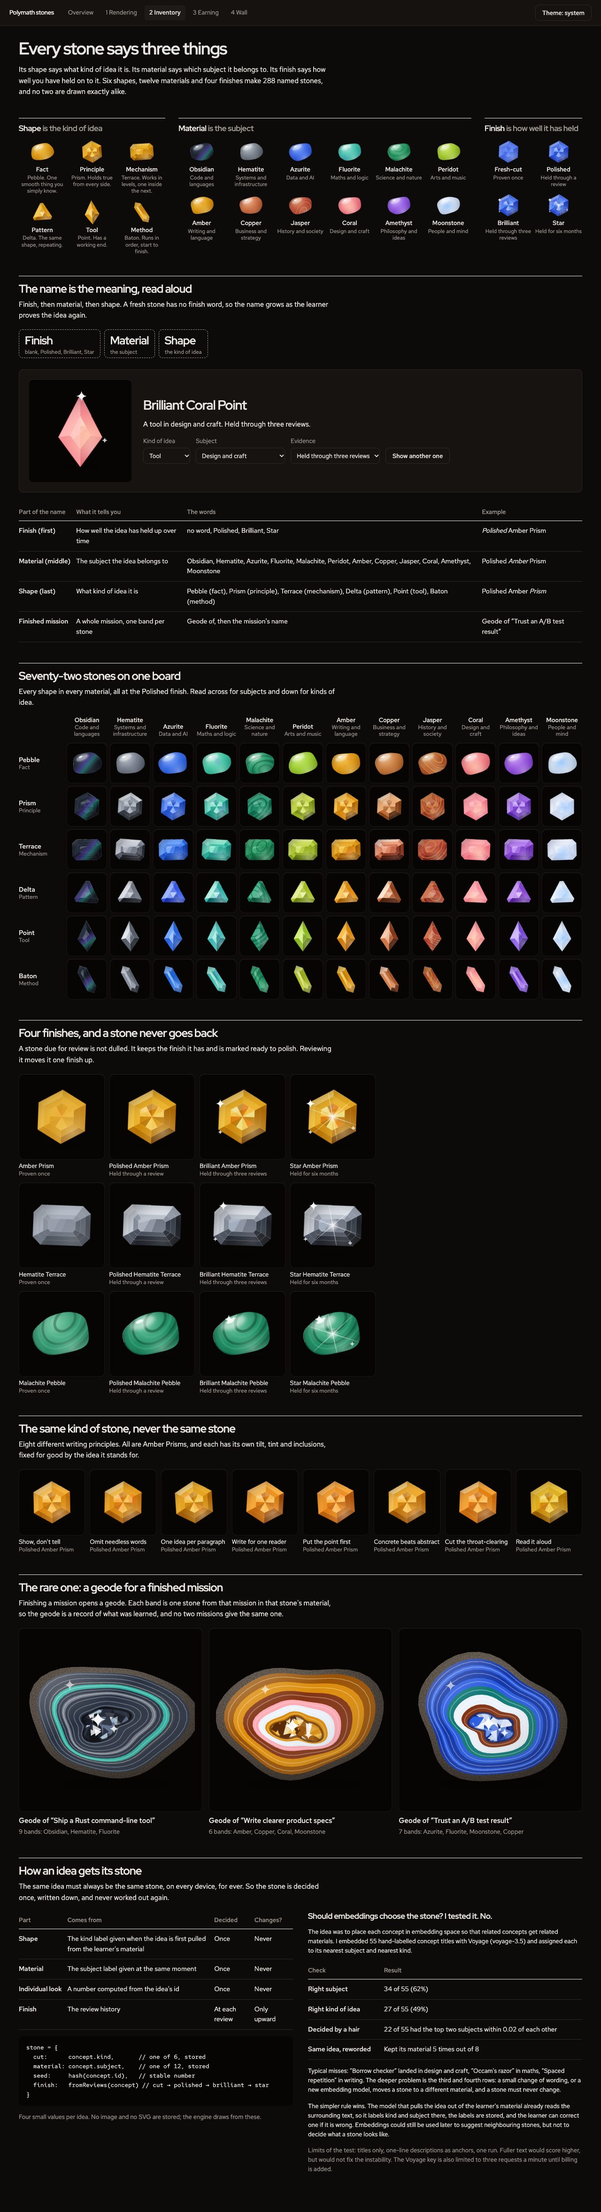
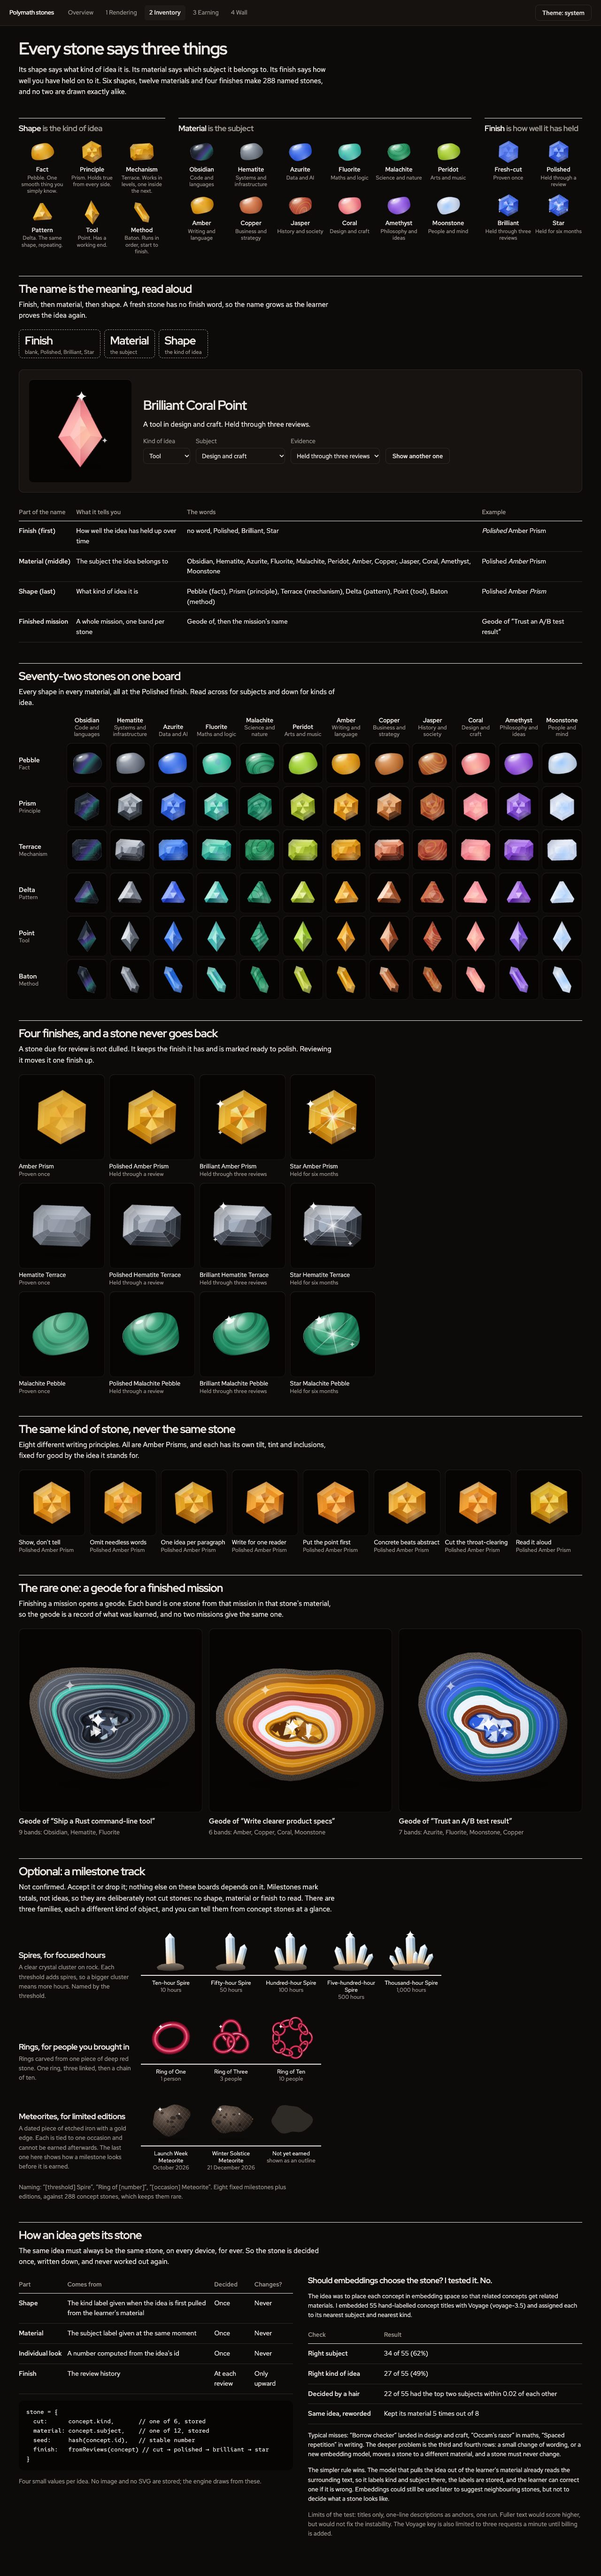
Stones: optional milestone track on the inventory board and the wall
Presented as an option, not confirmed scope. Three families that are
deliberately not cut stones: spires for focused hours (10 to 1,000), rings for
people invited (1, 3, 10) and dated meteorites for limited editions. The wall
gets a ledge with locked outlines and progress to the next, behind a toggle.

Committed with --no-verify for the same reason as the previous commit (the
hook cannot re-stage gitignored paths); prettier, eslint and size checks pass.

diff --git a/mockups/stones/lib/stones.js b/mockups/stones/lib/stones.js
@@ -420,10 +420,64 @@
     return `<svg xmlns="http://www.w3.org/2000/svg" viewBox="0 0 200 200"><defs>${defs}</defs><ellipse cx="104" cy="176" rx="66" ry="7" fill="#000" opacity=".2"/>${s}</svg>`;
   }
 
+  /* ---------- milestone track (optional): not cut stones, on purpose ---------- */
+  const LOCK = "#8c867b";
+  const SPIRE_COLS = [[0, 128, 36, -2], [30, 88, 28, 15], [-32, 80, 26, -18], [54, 56, 20, 30], [-56, 50, 18, -32], [12, 58, 18, 6]];
+  /** Focused hours: a crystal cluster that gains spires. tier 1..5. */
+  function drawSpire(tier, opts) {
+    opts = opts || {};
+    const id = opts.id || "sp", locked = !!opts.locked, pal = ["#4d6072", "#8ea6ba", "#cfdeea", "#f1f7fb", "#ffffff"];
+    const cols = SPIRE_COLS.slice(0, [1, 2, 3, 4, 6][tier - 1]).sort((a, b) => b[1] - a[1]);
+    let s = "";
+    for (const [x, h, w, tilt] of cols) {
+      const a = (tilt * Math.PI) / 180, o = [100 + x, 166], T = (q) => rot([o[0] + q[0], o[1] + q[1]], a, o), top = -(h - w * 0.55);
+      const xs = [-w / 2, -w / 7, w / 5, w / 2], out = [[-w / 2, 0], [w / 2, 0], [w / 2, top], [0, -h], [-w / 2, top]].map(T);
+      if (locked) { s += `<polygon points="${pts(out)}" fill="${LOCK}" opacity=".26" stroke="${LOCK}" stroke-width="1.2" stroke-dasharray="3 4"/>`; continue; }
+      for (let i = 0; i < 3; i++) {
+        s += `<polygon points="${pts([[xs[i], 0], [xs[i + 1], 0], [xs[i + 1], top], [xs[i], top]].map(T))}" fill="${[pal[3], pal[2], pal[1]][i]}"/>`;
+        s += `<polygon points="${pts([[xs[i], top], [xs[i + 1], top], [0, -h]].map(T))}" fill="${[pal[4], pal[3], pal[2]][i]}"/>`;
+      }
+      s += `<polygon points="${pts(out)}" fill="url(#${id}o)" opacity="${f1(0.45 + tier * 0.1)}"/><polygon points="${pts(out)}" fill="none" stroke="${pal[0]}" stroke-width="1.1" stroke-linejoin="round" opacity=".6"/>`;
+    }
+    const rx = 50 + tier * 5;
+    const base = `M${100 - rx},170Q${100 - rx * 0.7},154 ${100 - rx * 0.2},158Q${100 + rx * 0.3},150 ${100 + rx * 0.75},160Q${100 + rx},166 ${100 + rx * 0.9},178Q100,190 ${100 - rx * 0.9},180Z`;
+    s += locked ? `<path d="${base}" fill="${LOCK}" opacity=".3"/>` : `<path d="${base}" fill="url(#${id}b)"/>` + sparkle(100 + cols[0][0] - 4, 166 - cols[0][1] + 6, 6 + tier * 2, 0.95) + (tier >= 4 ? sparkle(142, 96, 7, 0.8) + sparkle(56, 108, 5, 0.7) : "");
+    const defs = `<linearGradient id="${id}o" x1="0" y1="1" x2="0" y2="0"><stop offset="0" stop-color="#ff9a3d" stop-opacity=".9"/><stop offset=".6" stop-color="#ffd27a" stop-opacity="0"/></linearGradient><linearGradient id="${id}b" x1="0" y1="0" x2="0" y2="1"><stop offset="0" stop-color="#8a7d70"/><stop offset="1" stop-color="#3b332d"/></linearGradient>`;
+    return `<svg xmlns="http://www.w3.org/2000/svg" viewBox="0 0 200 200"><defs>${defs}</defs>${locked ? "" : '<ellipse cx="102" cy="186" rx="64" ry="6" fill="#000" opacity=".18"/>'}${s}</svg>`;
+  }
+  /** People invited: rings carved from one piece, linked. count 1, 3 or 10. */
+  function drawRings(count, opts) {
+    opts = opts || {};
+    const locked = !!opts.locked, pal = ["#3a0614", "#7a0f2b", "#b81f45", "#e8627f", "#ffd0d9"];
+    const one = (cx, cy, r, sq, deg, w) => {
+      const e = `cx="${f1(cx)}" cy="${f1(cy)}" rx="${f1(r)}" ry="${f1(r * sq)}" fill="none"`, t = `transform="rotate(${f1(deg)} ${f1(cx)} ${f1(cy)})"`;
+      if (locked) return `<ellipse ${e} ${t} stroke="${LOCK}" stroke-width="${f1(w)}" opacity=".3"/>`;
+      return `<g ${t}><ellipse ${e} stroke="${pal[0]}" stroke-width="${f1(w + 2)}" opacity=".7"/><ellipse ${e} stroke="${pal[1]}" stroke-width="${f1(w)}"/><ellipse ${e} stroke="${pal[2]}" stroke-width="${f1(w * 0.6)}"/><ellipse ${e} stroke="${pal[3]}" stroke-width="${f1(w * 0.22)}"/><ellipse ${e} stroke="${pal[4]}" stroke-width="${f1(w * 0.16)}" stroke-linecap="round" stroke-dasharray="${f1(r * 1.1)} 999" stroke-dashoffset="${f1(-r * 3.4)}"/></g>`;
+    };
+    let s = "";
+    if (count <= 1) s = one(100, 100, 62, 0.82, -14, 24);
+    else if (count <= 3) for (let i = 0; i < 3; i++) { const a = -TAU / 4 + (i * TAU) / 3; s += one(100 + 30 * Math.cos(a), 104 + 30 * Math.sin(a), 40, 0.86, (a * 180) / Math.PI, 14); }
+    else for (let i = 0; i < 10; i++) { const a = (i * TAU) / 10; s += one(100 + 58 * Math.cos(a), 100 + 58 * Math.sin(a), 24, i % 2 ? 0.5 : 0.95, (a * 180) / Math.PI + 90, 8); }
+    return `<svg xmlns="http://www.w3.org/2000/svg" viewBox="0 0 200 200">${locked ? "" : '<ellipse cx="102" cy="186" rx="60" ry="6" fill="#000" opacity=".16"/>'}${s}${locked ? "" : sparkle(60, 56, 8, 0.9)}</svg>`;
+  }
+  /** Limited editions: a dated meteorite. Iron, etched, with a gold fusion edge. */
+  function drawMeteorite(seed, opts) {
+    opts = opts || {};
+    const id = opts.id || "mt", locked = !!opts.locked, r = rng(seed || 5), p = [r() * TAU, r() * TAU, r() * TAU];
+    const P = Array.from({ length: 40 }, (_, i) => { const th = (i / 40) * TAU, w = 1 + 0.1 * Math.sin(2 * th + p[0]) + 0.08 * Math.sin(3 * th + p[1]) + 0.05 * Math.sin(6 * th + p[2]); return [100 + 70 * w * Math.cos(th), 100 + 58 * w * Math.sin(th)]; });
+    const d = "M" + P.map(pt).join("L") + "Z";
+    if (locked) return `<svg xmlns="http://www.w3.org/2000/svg" viewBox="0 0 200 200"><path d="${d}" fill="${LOCK}" opacity=".26" stroke="${LOCK}" stroke-width="1.2" stroke-dasharray="3 4"/></svg>`;
+    let lines = "";
+    for (let i = -8; i <= 8; i++) lines += `M${i * 16 - 40},0l200,200M${i * 16 + 240},0l-140,200`;
+    let pits = "";
+    for (let i = 0; i < 7; i++) pits += `<ellipse cx="${f1(50 + r() * 100)}" cy="${f1(60 + r() * 80)}" rx="${f1(4 + r() * 8)}" ry="${f1(3 + r() * 5)}" fill="#0b0807" opacity=".5"/>`;
+    return `<svg xmlns="http://www.w3.org/2000/svg" viewBox="0 0 200 200"><defs><radialGradient id="${id}g" cx=".36" cy=".3" r=".85"><stop offset="0" stop-color="#7d6c60"/><stop offset=".55" stop-color="#3b302a"/><stop offset="1" stop-color="#120e0c"/></radialGradient><clipPath id="${id}c"><path d="${d}"/></clipPath></defs><ellipse cx="102" cy="176" rx="60" ry="6" fill="#000" opacity=".18"/><path d="${d}" fill="url(#${id}g)"/><g clip-path="url(#${id}c)"><path d="${lines}" stroke="#e7d7b4" stroke-width=".8" opacity=".22" fill="none"/>${pits}</g><path d="${d}" fill="none" stroke="#f3b23c" stroke-width="2.2" stroke-linejoin="round" stroke-dasharray="150 600" stroke-dashoffset="330" opacity=".9"/><path d="${d}" fill="none" stroke="#0b0807" stroke-width="1.2" opacity=".5"/>${sparkle(58, 60, 9, 0.95)}${sparkle(132, 78, 5, 0.75)}</svg>`;
+  }
+
   root.Stones = {
     CUTS, MATERIALS, FINISHES, CUT, MAT, FIN,
     fnv, rng, ramp, mix, rotateHue, hexToRgb,
     stoneName, stoneMeaning, stoneForConcept,
-    buildCut, drawStone, drawForming, drawShard, drawGeode, dataUrl, stoneImg,
+    buildCut, drawStone, drawForming, drawShard, drawGeode, drawSpire, drawRings, drawMeteorite, dataUrl, stoneImg,
   };
 })(typeof window !== "undefined" ? window : globalThis);

diff --git a/mockups/stones/4-wall.html b/mockups/stones/4-wall.html
@@ -33,6 +33,13 @@
   svg.forming { overflow: visible; display: block; }
   .forming .ghost { fill: none; stroke: var(--ink-muted); stroke-width: 1.6; stroke-dasharray: 3 5; opacity: 0.7; }
   .forming .frag { opacity: 0; transform: translate(var(--dx), var(--dy)); } .forming .frag.on { opacity: 1; } .forming .rim { opacity: 0; }
+  /* milestone shelf: objects stand on a ledge, not in wells, so the row reads as a different thing */
+  .shelves { display: grid; grid-template-columns: 5fr 3fr 2fr; gap: 0 22px; }
+  .ledge { display: flex; flex-direction: column; gap: 8px; min-width: 0; }
+  .ledge .items { display: flex; align-items: flex-end; gap: 4px; border-bottom: 2px solid var(--ink); padding: 0 4px; min-height: 84px; }
+  .ledge .items img { width: 100%; max-width: 76px; min-width: 0; flex: 1 1 0; height: auto; margin-bottom: -4px; }
+  .ledge .cap { font-size: 0.8125rem; font-weight: 500; line-height: 1.25; } .ledge .sub { font-size: 0.75rem; color: var(--ink-muted); line-height: 1.3; }
+  .bar { height: 4px; border-radius: 2px; background: var(--paper-3); overflow: hidden; } .bar i { display: block; height: 100%; background: var(--signal); border-radius: 2px; }
   /* detail */
   .detail { position: sticky; top: 16px; padding: 18px; display: flex; flex-direction: column; gap: 14px; }
   .detail .well { aspect-ratio: 1; position: relative; padding: 14%; }
@@ -57,7 +64,7 @@
   #share .facts { font-size: 20px; color: var(--ink-2); }
   #share .rowstones { display: flex; gap: 10px; margin-top: 30px; } #share .rowstones div { width: 76px; text-align: center; font-size: 12px; line-height: 1.2; color: var(--ink-muted); } #share .rowstones img { width: 76px; height: 76px; }
   #share .brand { position: absolute; right: 56px; bottom: 40px; font-family: var(--font-display); font-weight: 600; font-size: 22px; letter-spacing: -0.03em; }
-  @media (max-width: 900px) { .layout { grid-template-columns: minmax(0, 1fr); } .detail { position: static; } .empty .drawer { grid-template-columns: repeat(3, minmax(0, 1fr)); } }
+  @media (max-width: 900px) { .layout { grid-template-columns: minmax(0, 1fr); } .shelves { grid-template-columns: minmax(0, 1fr); gap: 22px; } .detail { position: static; } .empty .drawer { grid-template-columns: repeat(3, minmax(0, 1fr)); } }
 </style>
 </head>
 <body>
@@ -67,6 +74,7 @@
     <button class="btn" type="button" data-view="wall">The wall</button>
     <button class="btn" type="button" data-view="empty">A new learner</button>
     <button class="btn" type="button" data-view="share">The share image</button>
+    <label style="display:inline-flex;gap:6px;align-items:center"><input type="checkbox" id="ms-toggle" checked> Milestone shelf (optional, not confirmed)</label>
     <span class="muted" style="margin-left:auto">Click a stone to read it. Try “Polish now” on one that is ready.</span>
   </div>
 
@@ -76,6 +84,7 @@
         <div class="wallhead"><h1>Stones</h1><span class="muted" id="summary"></span></div>
         <div class="key6" id="key6" aria-label="What the shapes mean"></div>
       </div>
+      <section id="shelf" class="mission" aria-label="Milestones"><header><h2>Milestones</h2><span class="small muted">Rare. For totals, not ideas.</span></header><div class="shelves" id="shelves"></div></section>
       <div id="missions" class="stack" style="gap:36px"></div>
     </div>
     <aside class="panel detail" id="detail" aria-live="polite"></aside>
@@ -180,6 +189,20 @@
   // empty state: the six shapes as outlines, so the first screen already teaches the legend
   $("ghosts").innerHTML = S.CUTS.map((c) => `<div><div class="well"><svg viewBox="0 0 200 200"><path class="ghost" d="${S.drawStone({ cut: c.key, material: "amber", finish: "cut", seed: 3 }).outlineD}"/></svg></div><div class="cap">${c.plural}</div></div>`).join("");
   $("key6").innerHTML = "<span>Shape is the kind of idea:</span>" + S.CUTS.map((c) => `<span>${S.stoneImg({ cut: c.key, material: "hematite", finish: "cut", seed: 3 }, 22, "")}${c.kind}</span>`).join("") + '<span>Material is the subject. Finish is how well it has held.</span>';
+
+  // optional milestone shelf
+  (function () {
+    const M = D.MILESTONES, im = (svg, alt) => `<img src="${S.dataUrl(svg)}" alt="${alt}" title="${alt}">`;
+    const ledge = (t, draw) => {
+      const next = t.tiers.find(([n]) => n > t.have), last = [...t.tiers].reverse().find(([n]) => n <= t.have);
+      const items = t.tiers.map(([n, name], i) => im(draw(i, n, n > t.have), n > t.have ? name + ", not yet earned" : name)).join("");
+      return `<div class="ledge"><div class="items">${items}</div><div class="cap">${t.title}</div><div class="sub">${last ? last[1] + " earned. " : ""}${next ? `<span class="readout">${t.have} of ${next[0]}</span> ${t.unit} to the ${next[1]}.` : "All earned."}</div>${next ? `<div class="bar" role="img" aria-label="${t.have} of ${next[0]} ${t.unit}"><i style="width:${Math.round((t.have / next[0]) * 100)}%"></i></div>` : ""}</div>`;
+    };
+    $("shelves").innerHTML = ledge(M.hours, (i, n, locked) => S.drawSpire(i + 1, { id: "ws" + i, locked })) + ledge(M.invites, (i, n, locked) => S.drawRings(n, { locked })) +
+      `<div class="ledge"><div class="items">${M.editions.items.map((e, i) => im(S.drawMeteorite(e.seed, { id: "wm" + i, locked: !e.earned }), e.earned ? e.name : e.name + ", not yet earned")).join("")}</div><div class="cap">${M.editions.title}</div><div class="sub">${M.editions.items[0].name}, ${M.editions.items[0].when}. Next: ${M.editions.items[1].when}.</div></div>`;
+    const t = $("ms-toggle"); t.checked = params.get("milestones") !== "0";
+    const sync = () => { $("shelf").hidden = !t.checked; }; t.addEventListener("change", sync); sync();
+  })();
 
   // share image
   function renderShare() {

diff --git a/mockups/stones/2-inventory.html b/mockups/stones/2-inventory.html
@@ -32,8 +32,11 @@
   .strip figcaption { font-size: 0.8125rem; line-height: 1.3; } .strip figcaption span { display: block; color: var(--ink-muted); font-size: 0.75rem; }
   .geodes { display: grid; grid-template-columns: repeat(3, minmax(0, 1fr)); gap: 14px; }
   .geodes figure { margin: 0; display: flex; flex-direction: column; gap: 8px; } .geodes .well { aspect-ratio: 4 / 3; padding: 4%; } .geodes .well img { height: 100%; width: auto; }
+  .track { display: grid; grid-template-columns: 240px minmax(0, 1fr); gap: 20px; align-items: end; }
+  .shelf { display: flex; flex-wrap: wrap; gap: 14px 0; align-items: flex-start; }
+  .shelf figure { margin: 0; width: 128px; text-align: center; } .shelf img { width: 100%; height: 112px; object-fit: contain; object-position: bottom; display: block; border-bottom: 2px solid var(--ink); } .shelf figcaption { font-size: 0.75rem; line-height: 1.25; padding: 8px 4px 0; } .shelf figcaption span { display: block; color: var(--ink-muted); }
   .two { display: grid; grid-template-columns: minmax(0, 1fr) minmax(0, 1fr); gap: 32px; }
-  @media (max-width: 860px) { .legend, .two, .geodes { grid-template-columns: minmax(0, 1fr); gap: 24px; } .builder { grid-template-columns: minmax(0, 1fr); } .builder .well { max-width: 220px; } }
+  @media (max-width: 860px) { .legend, .two, .geodes, .track { grid-template-columns: minmax(0, 1fr); gap: 24px; } .builder { grid-template-columns: minmax(0, 1fr); } .builder .well { max-width: 220px; } }
 </style>
 </head>
 <body>
@@ -102,6 +105,17 @@
     <header><h2>The rare one: a geode for a finished mission</h2>
       <p>Finishing a mission opens a geode. Each band is one stone from that mission in that stone's material, so the geode is a record of what was learned, and no two missions give the same one.</p></header>
     <div class="geodes" id="geodes"></div>
+  </section>
+
+  <section id="milestones">
+    <header><h2>Optional: a milestone track</h2>
+      <p>Not confirmed. Accept it or drop it; nothing else on these boards depends on it. Milestones mark totals, not ideas, so they are deliberately not cut stones: no shape, material or finish to read. There are three families, each a different kind of object, and you can tell them from concept stones at a glance.</p></header>
+    <div class="stack loose">
+      <div class="track"><div class="stack tight"><h3>Spires, for focused hours</h3><p class="small muted">A clear crystal cluster on rock. Each threshold adds spires, so a bigger cluster means more hours. Named by the threshold.</p></div><div class="shelf" id="ms-hours"></div></div>
+      <div class="track"><div class="stack tight"><h3>Rings, for people you brought in</h3><p class="small muted">Rings carved from one piece of deep red stone. One ring, three linked, then a chain of ten.</p></div><div class="shelf" id="ms-invites"></div></div>
+      <div class="track"><div class="stack tight"><h3>Meteorites, for limited editions</h3><p class="small muted">A dated piece of etched iron with a gold edge. Each is tied to one occasion and cannot be earned afterwards. The last one here shows how a milestone looks before it is earned.</p></div><div class="shelf" id="ms-editions"></div></div>
+      <p class="small muted">Naming: “[threshold] Spire”, “Ring of [number]”, “[occasion] Meteorite”. Eight fixed milestones plus editions, against 288 concept stones, which keeps them rare.</p>
+    </div>
   </section>
 
   <section>
@@ -181,6 +195,10 @@
   $("finishes").innerHTML = [["prism", "amber"], ["terrace", "hematite"], ["pebble", "malachite"]].map(([c, m]) => S.FINISHES.map((f) => { const spec = { cut: c, material: m, finish: f.key, seed: 5 }; return `<figure><div class="well">${img(spec, 150)}</div><figcaption>${S.stoneName(spec)}<span>${f.evidence}</span></figcaption></figure>`; }).join("")).join("");
   const ideas = ["Show, don't tell", "Omit needless words", "One idea per paragraph", "Write for one reader", "Put the point first", "Concrete beats abstract", "Cut the throat-clearing", "Read it aloud"];
   $("siblings").innerHTML = ideas.map((n) => { const spec = { cut: "prism", material: "amber", finish: "polished", seed: S.fnv(n) }; return `<figure><div class="well">${img(spec, 150)}</div><figcaption>${n}<span>${S.stoneName(spec)}</span></figcaption></figure>`; }).join("");
+  const M = D.MILESTONES, fig = (svg, name, sub) => `<figure><img src="${S.dataUrl(svg)}" alt="${name}"><figcaption>${name}<span>${sub}</span></figcaption></figure>`;
+  $("ms-hours").innerHTML = M.hours.tiers.map(([n, name], i) => fig(S.drawSpire(i + 1, { id: "sp" + i }), name, n.toLocaleString() + " hours")).join("");
+  $("ms-invites").innerHTML = M.invites.tiers.map(([n, name]) => fig(S.drawRings(n), name, n + (n === 1 ? " person" : " people"))).join("");
+  $("ms-editions").innerHTML = M.editions.items.map((e, i) => fig(S.drawMeteorite(e.seed, { id: "mt" + i }), e.name, e.when)).join("") + fig(S.drawMeteorite(29, { locked: true }), "Not yet earned", "shown as an outline");
   $("geodes").innerHTML = D.MISSIONS.map((m, i) => `<figure><div class="well"><img src="${S.dataUrl(S.drawGeode(m.concepts.map(D.spec), S.fnv(m.id)))}" alt="Geode with ${m.concepts.length} bands"></div><figcaption><b style="font-weight:500">Geode of “${m.name}”</b><br><span class="small muted">${m.concepts.length} bands: ${[...new Set(m.concepts.map((c) => S.MAT[c.subject].name))].join(", ")}</span></figcaption></figure>`).join("");
 })();
 </script>

diff --git a/mockups/stones/index.html b/mockups/stones/index.html
@@ -38,6 +38,7 @@
       <li><b>Shards per stone.</b> The boards use three. Fewer makes stones cheap; more makes the first one slow to arrive.</li>
       <li><b>What earns each finish.</b> The boards use one review, three reviews and six months. These are placeholders for your review schedule.</li>
       <li><b>Material names.</b> Real mineral names read well and are easy to say. Check that none clash with names you already use: today's seven stones include Topaz, Ruby and Sapphire, which this set does not reuse.</li>
+      <li><b>A milestone track.</b> Optional and not confirmed. Spires for focused hours, rings for people you brought in, dated meteorites for limited editions. It is on board 2 and can be switched on and off on the wall. Accept it or drop it.</li>
       <li><b>Photographic stones.</b> I could not test image-model plates because the Gemini key has no image quota. If you want to see that direction properly, it needs a paid image tier.</li>
     </ol>
   </section>

diff --git a/mockups/stones/lib/data.js b/mockups/stones/lib/data.js
@@ -50,5 +50,11 @@
       ],
     },
   ];
-  root.StoneData = { SAMPLES, MISSIONS, SHARDS_PER_STONE: 3, spec: (x) => S.stoneForConcept(x) };
+  /* Optional milestone track. Few, fixed, rare: thresholds, not concepts. */
+  const MILESTONES = {
+    hours: { title: "Focused hours", unit: "hours", have: 63, tiers: [[10, "Ten-hour Spire"], [50, "Fifty-hour Spire"], [100, "Hundred-hour Spire"], [500, "Five-hundred-hour Spire"], [1000, "Thousand-hour Spire"]] },
+    invites: { title: "People you brought in", unit: "people", have: 1, tiers: [[1, "Ring of One"], [3, "Ring of Three"], [10, "Ring of Ten"]] },
+    editions: { title: "Limited editions", items: [{ name: "Launch Week Meteorite", when: "October 2026", earned: true, seed: 11 }, { name: "Winter Solstice Meteorite", when: "21 December 2026", earned: false, seed: 29 }] },
+  };
+  root.StoneData = { SAMPLES, MISSIONS, MILESTONES, SHARDS_PER_STONE: 3, spec: (x) => S.stoneForConcept(x) };
 })(window);
